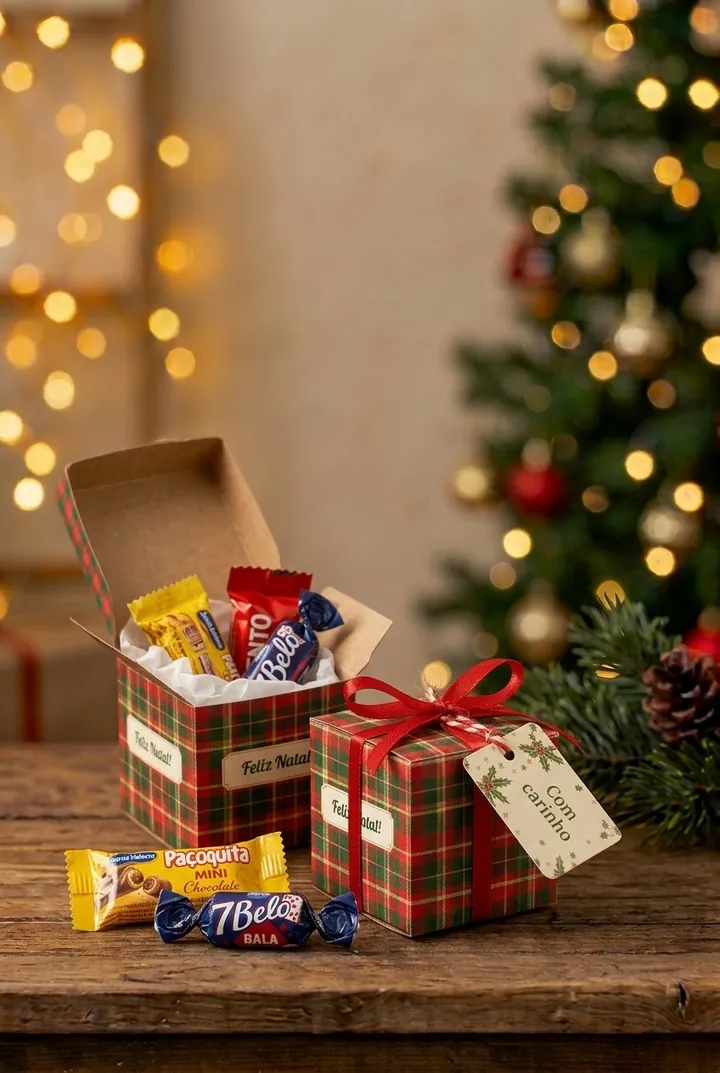
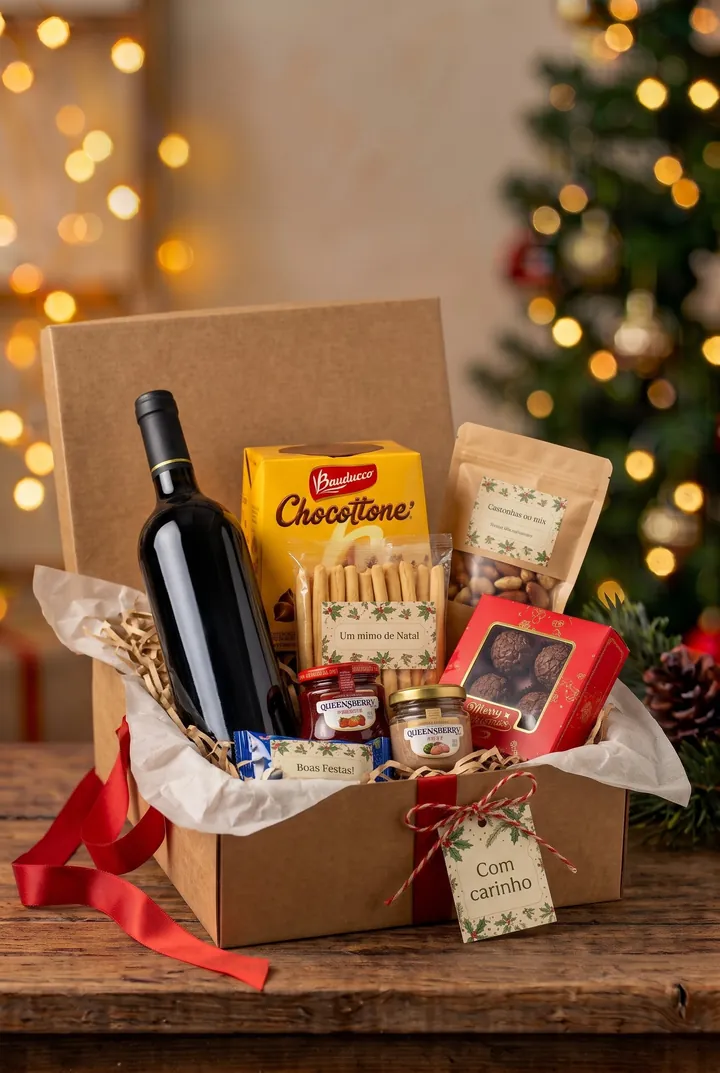
Vitrine com 8 kits (Cesta Natalina Premium e Velas Natalinas) e pop-up de saída não abre mais ao clicar nos links internos
Claude-Session: https://claude.ai/code/session_0182DCbiwUeVaJFfPVmqeLjG

diff --git a/src/config/oferta.ts b/src/config/oferta.ts
@@ -114,8 +114,8 @@ export const kits: Kit[] = [
   { n: 31, cat: 'economicas', nome: 'Cone de Docinhos Natalinos', desc: 'Mix de docinhos num cone natalino impresso: pequeno, cheio e lindo.', img: '/fotos/kit-31.webp' },
   { n: 32, cat: 'economicas', nome: 'Pirâmide Surpresa', desc: 'Caixinha em pirâmide feita com o molde, com poucos itens bem escolhidos.', img: '/fotos/kit-32.webp' },
   { n: 33, cat: 'economicas', nome: 'Almofadinha de Chocolate', desc: 'Uma caixa almofada compacta com mix pequeno, mas mais interessante do que um único doce.', img: '/fotos/kit-33.webp' },
-  { n: 34, cat: 'economicas', nome: 'Cubinho da Sorte', desc: 'Cubinho fofo e bem recheado, usando doces compactos que aproveitam melhor o volume interno.', img: '/fotos/kit-34.webp' },
-  { n: 35, cat: 'economicas', nome: 'Mini Sacolinha Criativa', desc: 'Uma mini sacolinha pequena, mas com composição mais interessante: item comestível + item…', img: '/fotos/kit-35.webp' },
+  { n: 34, cat: 'doces', nome: 'Cesta Natalina Premium', desc: 'Vinho, chocotone, geleia, castanhas, salgados e chocolates numa cesta farta e elegante.', img: '/fotos/kit-34.webp' },
+  { n: 35, cat: 'criativos', nome: 'Luz e Carinho: Velas Natalinas', desc: 'Três velas decoradas e castiçal numa caixa natalina com fita xadrez e raminho.', img: '/fotos/kit-35.webp' },
   { n: 36, cat: 'canecas', nome: 'Ritual do Café Especial', desc: 'Caixa de café completa, com caneca, café e biscoitos de marcas conhecidas.', img: '/fotos/kit-36.webp' },
   { n: 37, cat: 'doces', nome: 'Tábua de Petiscos de Natal', desc: 'Um kit gourmet mais elaborado, com composição elegante e cara de presente premium.', img: '/fotos/kit-37.webp' },
   { n: 38, cat: 'beleza', nome: 'Ritual de Banho Premium', desc: 'Caixa de banho completa, com toalha, hidratante e sabonete, finalizada com laço.', img: '/fotos/kit-38.webp' },
@@ -123,12 +123,12 @@ export const kits: Kit[] = [
   { n: 40, cat: 'criativos', nome: 'Noite de Jogos em Família', desc: 'Kit com proposta divertida e maior quantidade de componentes, pensado para parecer completo…', img: '/fotos/kit-40.webp' },
 ];
 
-/** Kits que aparecem com foto na vitrine (um de cada categoria). Os outros aparecem só na lista de nomes. */
-export const kitsDestaque = [31, 32, 36, 38, 26, 27];
+/** Kits que aparecem com foto na vitrine. Os outros entram no bloco "E mais X kits". */
+export const kitsDestaque = [31, 34, 36, 35, 32, 38, 26, 27];
 
 /** Ficha de exemplo mostrada no topo (valores ilustrativos). */
 export const fichaExemplo = {
-  kit: 'Projeto 06',
+  kit: 'Projeto 11',
   nome: 'Caneca de Chocolate Quente',
   materiais: ['1 caneca de cerâmica de 250 a 350 ml', '1 sachê de chocolate quente ou cappuccino', '2 bombons embalados', '1 saco de celofane 25 × 35 cm', 'Papel de seda, fita e tag (molde M02)'],
   custo: 'R$ 29',

diff --git a/src/components/KitsGrid.tsx b/src/components/KitsGrid.tsx
@@ -2,17 +2,17 @@ import Image from 'next/image';
 import { categorias, kits, kitsDestaque } from '@/config/oferta';
 import { Foto } from './Foto';
 
-/** Vitrine: 6 kits com foto + chamada "e mais X kits" com miniaturas. */
+/** Vitrine: 8 kits com foto + chamada "e mais X kits" com miniaturas. */
 export function KitsGrid() {
   const destaque = kitsDestaque.map((n) => kits.find((k) => k.n === n)!).filter(Boolean);
   const outros = kits.filter((k) => !kitsDestaque.includes(k.n));
   const mini = [11, 17, 8, 40, 29, 4].map((n) => kits.find((k) => k.n === n)!).filter(Boolean);
   return (
     <div>
-      <div className="grid grid-cols-2 gap-3 md:grid-cols-3 md:gap-4">
+      <div className="grid grid-cols-2 gap-3 md:grid-cols-4 md:gap-4">
         {destaque.map((k) => (
           <article key={k.n} className="card overflow-hidden">
-            <Foto src={k.img} alt={`Foto: ${k.nome} montado`} ratio="4 / 5" sizes="(max-width: 768px) 50vw, 340px" />
+            <Foto src={k.img} alt={`Foto: ${k.nome} montado`} ratio="4 / 5" sizes="(max-width: 768px) 50vw, 260px" />
             <div className="p-3">
               <p className="text-[11px] font-extrabold uppercase tracking-wider text-vermelho">{categorias.find((c) => c.id === k.cat)?.nome}</p>
               <h3 className="mt-0.5 text-[15px] font-extrabold leading-tight text-verde">{k.nome}</h3>

diff --git a/src/components/ExitPopup.tsx b/src/components/ExitPopup.tsx
@@ -36,6 +36,23 @@ export function ExitPopup({ href, preco, precoDe, bonus, capa }: { href: string;
     return true;
   }, []);
 
+  // Links internos (#planos etc.) rolam a página sem criar entrada no histórico.
+  // Sem isso, o navegador dispara "popstate" ao clicar e o pop-up abria como se a pessoa estivesse saindo.
+  useEffect(() => {
+    const onClick = (e: MouseEvent) => {
+      if (e.defaultPrevented || e.button !== 0 || e.metaKey || e.ctrlKey || e.shiftKey || e.altKey) return;
+      const a = (e.target as Element | null)?.closest?.('a[href^="#"]');
+      const id = a?.getAttribute('href')?.slice(1);
+      const alvo = id ? document.getElementById(id) : null;
+      if (!alvo) return;
+      e.preventDefault();
+      const reduz = window.matchMedia('(prefers-reduced-motion: reduce)').matches;
+      alvo.scrollIntoView({ behavior: reduz ? 'auto' : 'smooth', block: 'start' });
+    };
+    document.addEventListener('click', onClick);
+    return () => document.removeEventListener('click', onClick);
+  }, []);
+
   useEffect(() => {
     if (jaViu()) return;
     const t0 = Date.now();
